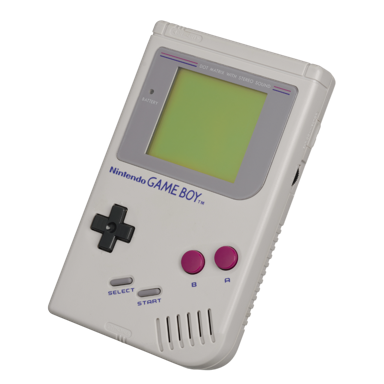
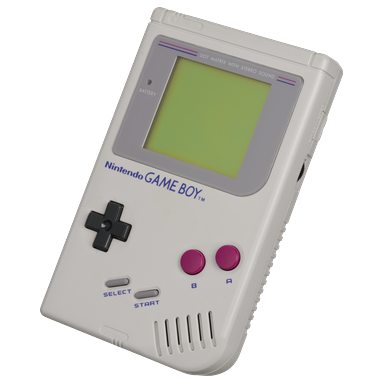
Replace the fancy cards with the consoles alone
Same photographer, same public domain source, different shots: these are the
machines without controllers. The previous set had a controller on some and not
others, so the silhouettes disagreed down a shelf and no amount of layout work
was going to settle that.

Framed consistently while they were being replaced. Each is trimmed to its own
alpha, scaled so its longest side is 96% of the frame, and centred. The old set
ranged from 89% to 98%, which is most of why it read as uneven - the objects
were different sizes on the same shelf and nothing said so.

GENESIS.png is the file that arrived as MD.png. SOURCE.md already noted that
the originals came in under Japanese short codes describing the code rather
than the photograph, and this is that rename finally happening.

diff --git a/res/cards/fancy/SOURCE.md b/res/cards/fancy/SOURCE.md
@@ -3,6 +3,14 @@
 Photographs of the console hardware, background removed to transparent alpha
 and renamed to the tags in `systems.cfg`. 384x384.
 
+Replaced 2026-09-11 with the SAME photographer's shots of the consoles ALONE.
+The previous set included controllers on some machines and not others, which
+made the silhouettes disagree down a shelf. These are trimmed to their own
+alpha, scaled so the longest side is 96% of the frame, and centred - the old
+set ranged from 89% to 98% and read as uneven for that reason rather than any
+other. The high-resolution originals they were cut from are kept outside the
+repository; `GENESIS.png` is the file that arrived as `MD.png`.
+
   Author:  Evan Amos
   Source:  Vanamo Online Game Museum / Wikimedia Commons
            https://commons.wikimedia.org/wiki/User:Evan-Amos
